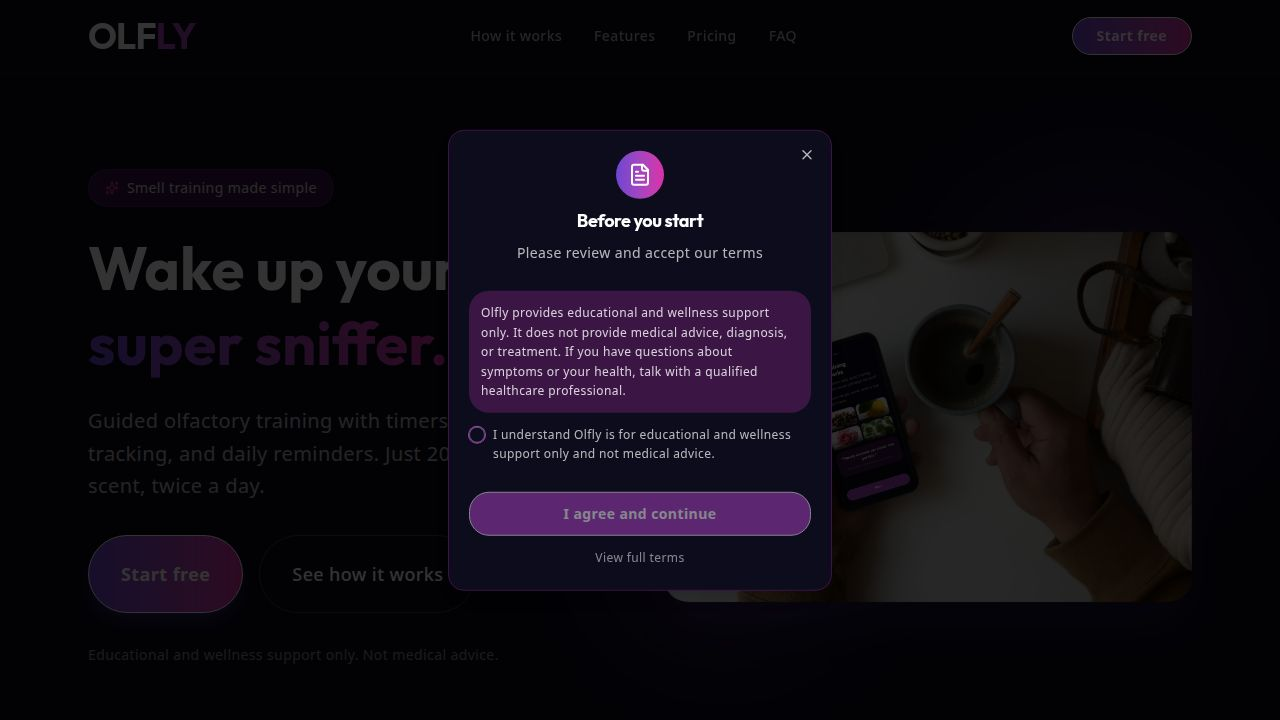
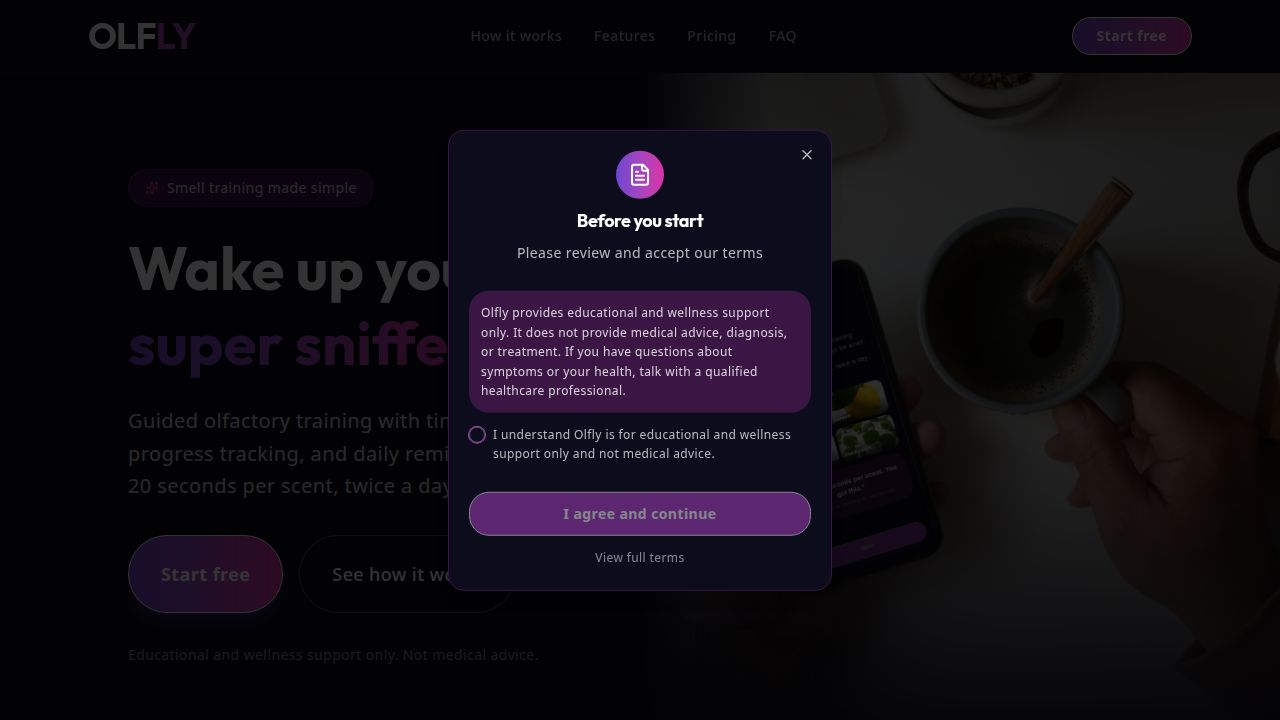
Restructure hero section for improved visual layout and text overlay
Refactor hero section to use a two-column flexbox layout with a gradient overlay, separating text and image content.

Replit-Commit-Author: Agent
Replit-Commit-Session-Id: fac5df56-df85-4746-8be4-0f009da6a694
Replit-Commit-Checkpoint-Type: full_checkpoint
Replit-Commit-Event-Id: 3b8378de-7001-43c3-8389-40f45812f1d0
Replit-Commit-Screenshot-Url: https://storage.googleapis.com/screenshot-production-us-central1/d95a715f-a07a-4951-916d-d6802aed9233/fac5df56-df85-4746-8be4-0f009da6a694/3TTXbbp

diff --git a/client/src/pages/Landing.tsx b/client/src/pages/Landing.tsx
@@ -177,62 +177,67 @@ export default function Landing() {
       </nav>
 
       {/* Hero Section */}
-      <section className="relative min-h-[90vh] flex items-center overflow-hidden">
-        <div 
-          className="absolute inset-0 z-0"
-          style={{
-            backgroundImage: `url(${phoneLifestyle})`,
-            backgroundSize: 'cover',
-            backgroundPosition: 'right center',
-          }}
-        />
-        <div className="absolute inset-0 z-10 bg-gradient-to-r from-[#0c0c1d] from-30% via-[#0c0c1d]/80 via-50% to-transparent to-75%" />
-        <div className="absolute inset-0 z-10 bg-gradient-to-t from-[#0c0c1d] via-transparent to-[#0c0c1d]/20" />
-        
-        <div className="relative z-20 w-full max-w-6xl mx-auto px-6 py-16 md:py-24">
-          <motion.div
-            initial={{ opacity: 0, y: 20 }}
-            animate={{ opacity: 1, y: 0 }}
-            transition={{ duration: 0.6 }}
-            className="max-w-md lg:max-w-lg"
-          >
-            <div className="inline-flex items-center gap-2 px-4 py-2 rounded-full bg-[#3b1645]/80 backdrop-blur-sm border border-[#6d45d2]/30 mb-6">
-              <Sparkles size={14} className="text-[#db2faa]" />
-              <span className="text-sm text-white/80">Smell training made simple</span>
-            </div>
-            
-            <h1 className="text-4xl md:text-5xl lg:text-6xl font-bold leading-tight mb-6">
-              Wake up your{" "}
-              <span className="text-transparent bg-clip-text bg-gradient-to-r from-[#6d45d2] to-[#db2faa]">
-                super sniffer.
-              </span>
-            </h1>
-            
-            <p className="text-xl text-white/80 mb-8 leading-relaxed">
-              Guided olfactory training with timers, progress tracking, and daily reminders. Just 20 seconds per scent, twice a day.
-            </p>
+      <section className="relative min-h-[90vh] overflow-hidden">
+        <div className="flex flex-col md:flex-row min-h-[90vh]">
+          {/* Text Column */}
+          <div className="relative z-20 flex-1 md:basis-1/2 bg-[#0c0c1d] flex items-center">
+            <div className="px-6 md:px-12 lg:px-16 py-16 md:py-24 max-w-xl ml-auto">
+              <motion.div
+                initial={{ opacity: 0, y: 20 }}
+                animate={{ opacity: 1, y: 0 }}
+                transition={{ duration: 0.6 }}
+              >
+                <div className="inline-flex items-center gap-2 px-4 py-2 rounded-full bg-[#3b1645] border border-[#6d45d2]/30 mb-6">
+                  <Sparkles size={14} className="text-[#db2faa]" />
+                  <span className="text-sm text-white/80">Smell training made simple</span>
+                </div>
+                
+                <h1 className="text-4xl md:text-5xl lg:text-6xl font-bold leading-tight mb-6">
+                  Wake up your{" "}
+                  <span className="text-transparent bg-clip-text bg-gradient-to-r from-[#6d45d2] to-[#db2faa]">
+                    super sniffer.
+                  </span>
+                </h1>
+                
+                <p className="text-xl text-white/80 mb-8 leading-relaxed">
+                  Guided olfactory training with timers, progress tracking, and daily reminders. Just 20 seconds per scent, twice a day.
+                </p>
 
-            <div className="flex flex-wrap gap-4 mb-8">
-              <Button
-                onClick={() => setLocation("/launch")}
-                className="bg-gradient-to-r from-[#6d45d2] to-[#db2faa] hover:opacity-90 text-white font-bold rounded-full px-8 py-6 text-lg shadow-lg shadow-[#6d45d2]/30"
-                data-testid="hero-cta"
-              >
-                Start free
-              </Button>
-              <Button
-                onClick={() => scrollTo("how-it-works")}
-                variant="outline"
-                className="border-white/30 text-white hover:bg-white/10 rounded-full px-8 py-6 text-lg backdrop-blur-sm"
-              >
-                See how it works
-              </Button>
+                <div className="flex flex-wrap gap-4 mb-8">
+                  <Button
+                    onClick={() => setLocation("/launch")}
+                    className="bg-gradient-to-r from-[#6d45d2] to-[#db2faa] hover:opacity-90 text-white font-bold rounded-full px-8 py-6 text-lg shadow-lg shadow-[#6d45d2]/30"
+                    data-testid="hero-cta"
+                  >
+                    Start free
+                  </Button>
+                  <Button
+                    onClick={() => scrollTo("how-it-works")}
+                    variant="outline"
+                    className="border-white/30 text-white hover:bg-white/10 rounded-full px-8 py-6 text-lg"
+                  >
+                    See how it works
+                  </Button>
+                </div>
+                
+                <p className="text-sm text-white/50">
+                  Educational and wellness support only. Not medical advice.
+                </p>
+              </motion.div>
             </div>
-            
-            <p className="text-sm text-white/50">
-              Educational and wellness support only. Not medical advice.
-            </p>
-          </motion.div>
+            {/* Gradient overlay extending into image */}
+            <div className="hidden md:block absolute top-0 bottom-0 -right-32 w-32 bg-gradient-to-r from-[#0c0c1d] to-transparent z-30" />
+          </div>
+          
+          {/* Image Column */}
+          <div className="relative flex-1 md:basis-1/2 min-h-[50vh] md:min-h-0">
+            <img 
+              src={phoneLifestyle} 
+              alt="Olfly app in use"
+              className="absolute inset-0 w-full h-full object-cover"
+            />
+            <div className="absolute inset-0 bg-gradient-to-t from-[#0c0c1d] via-transparent to-[#0c0c1d]/20" />
+          </div>
         </div>
       </section>
 
